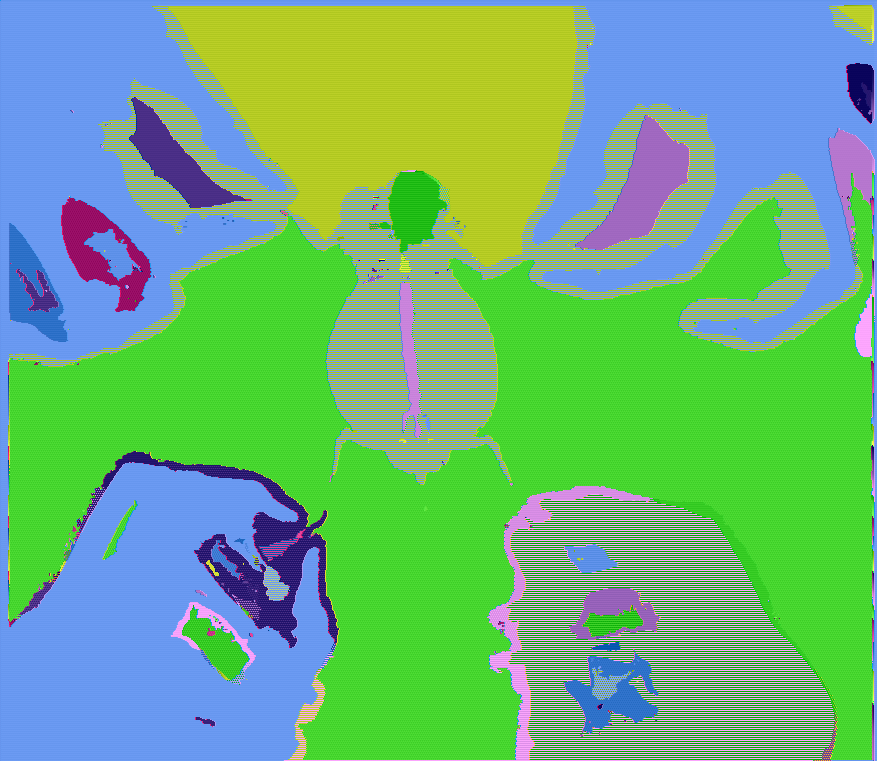
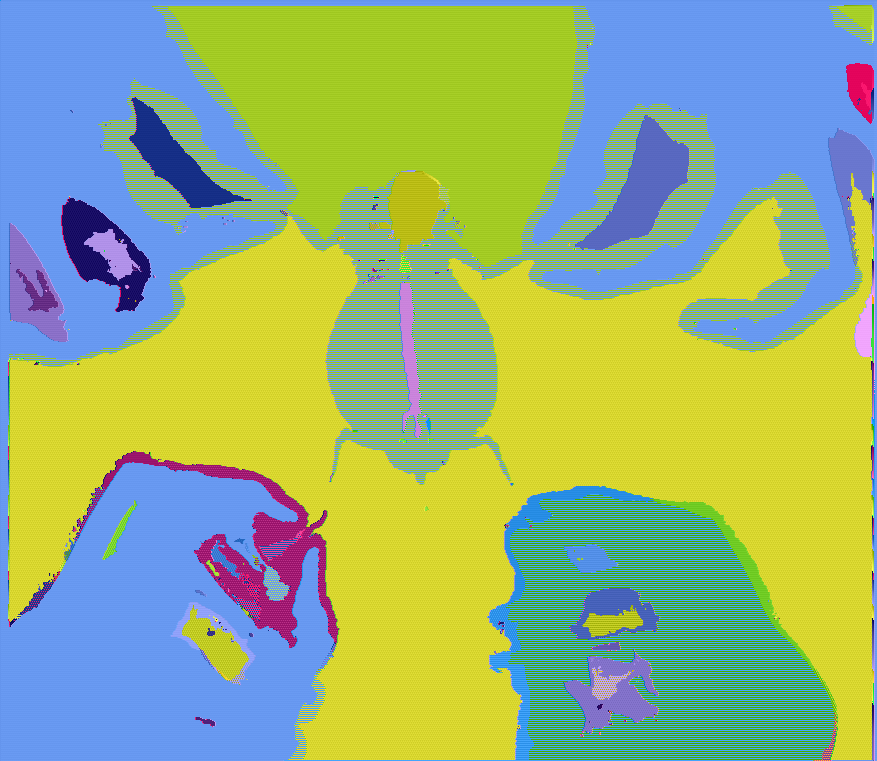
)))))))))))))))))))))))

diff --git a/main.c b/main.c
@@ -61,7 +61,7 @@ void DFS (int i, int j, int w, int h, int size,  int graph[size], unsigned char*
 unsigned char* coloration(unsigned char* Img, int w, int h, int n, int size, int graph[size]){
 	int i;
 	for (i = 0; i < size; i++){
-        	Img[i * n] = 100 + graph[i] + 0.5 * graph[i - 1];
+        	Img[i * n] = 100 + graph[i] + 0.16 * graph[i - 1];
         	Img[i * n + 1] = 149 + graph[i];
         	Img[i * n + 2] = 237 + graph[i];
         	if (n == 4) 
